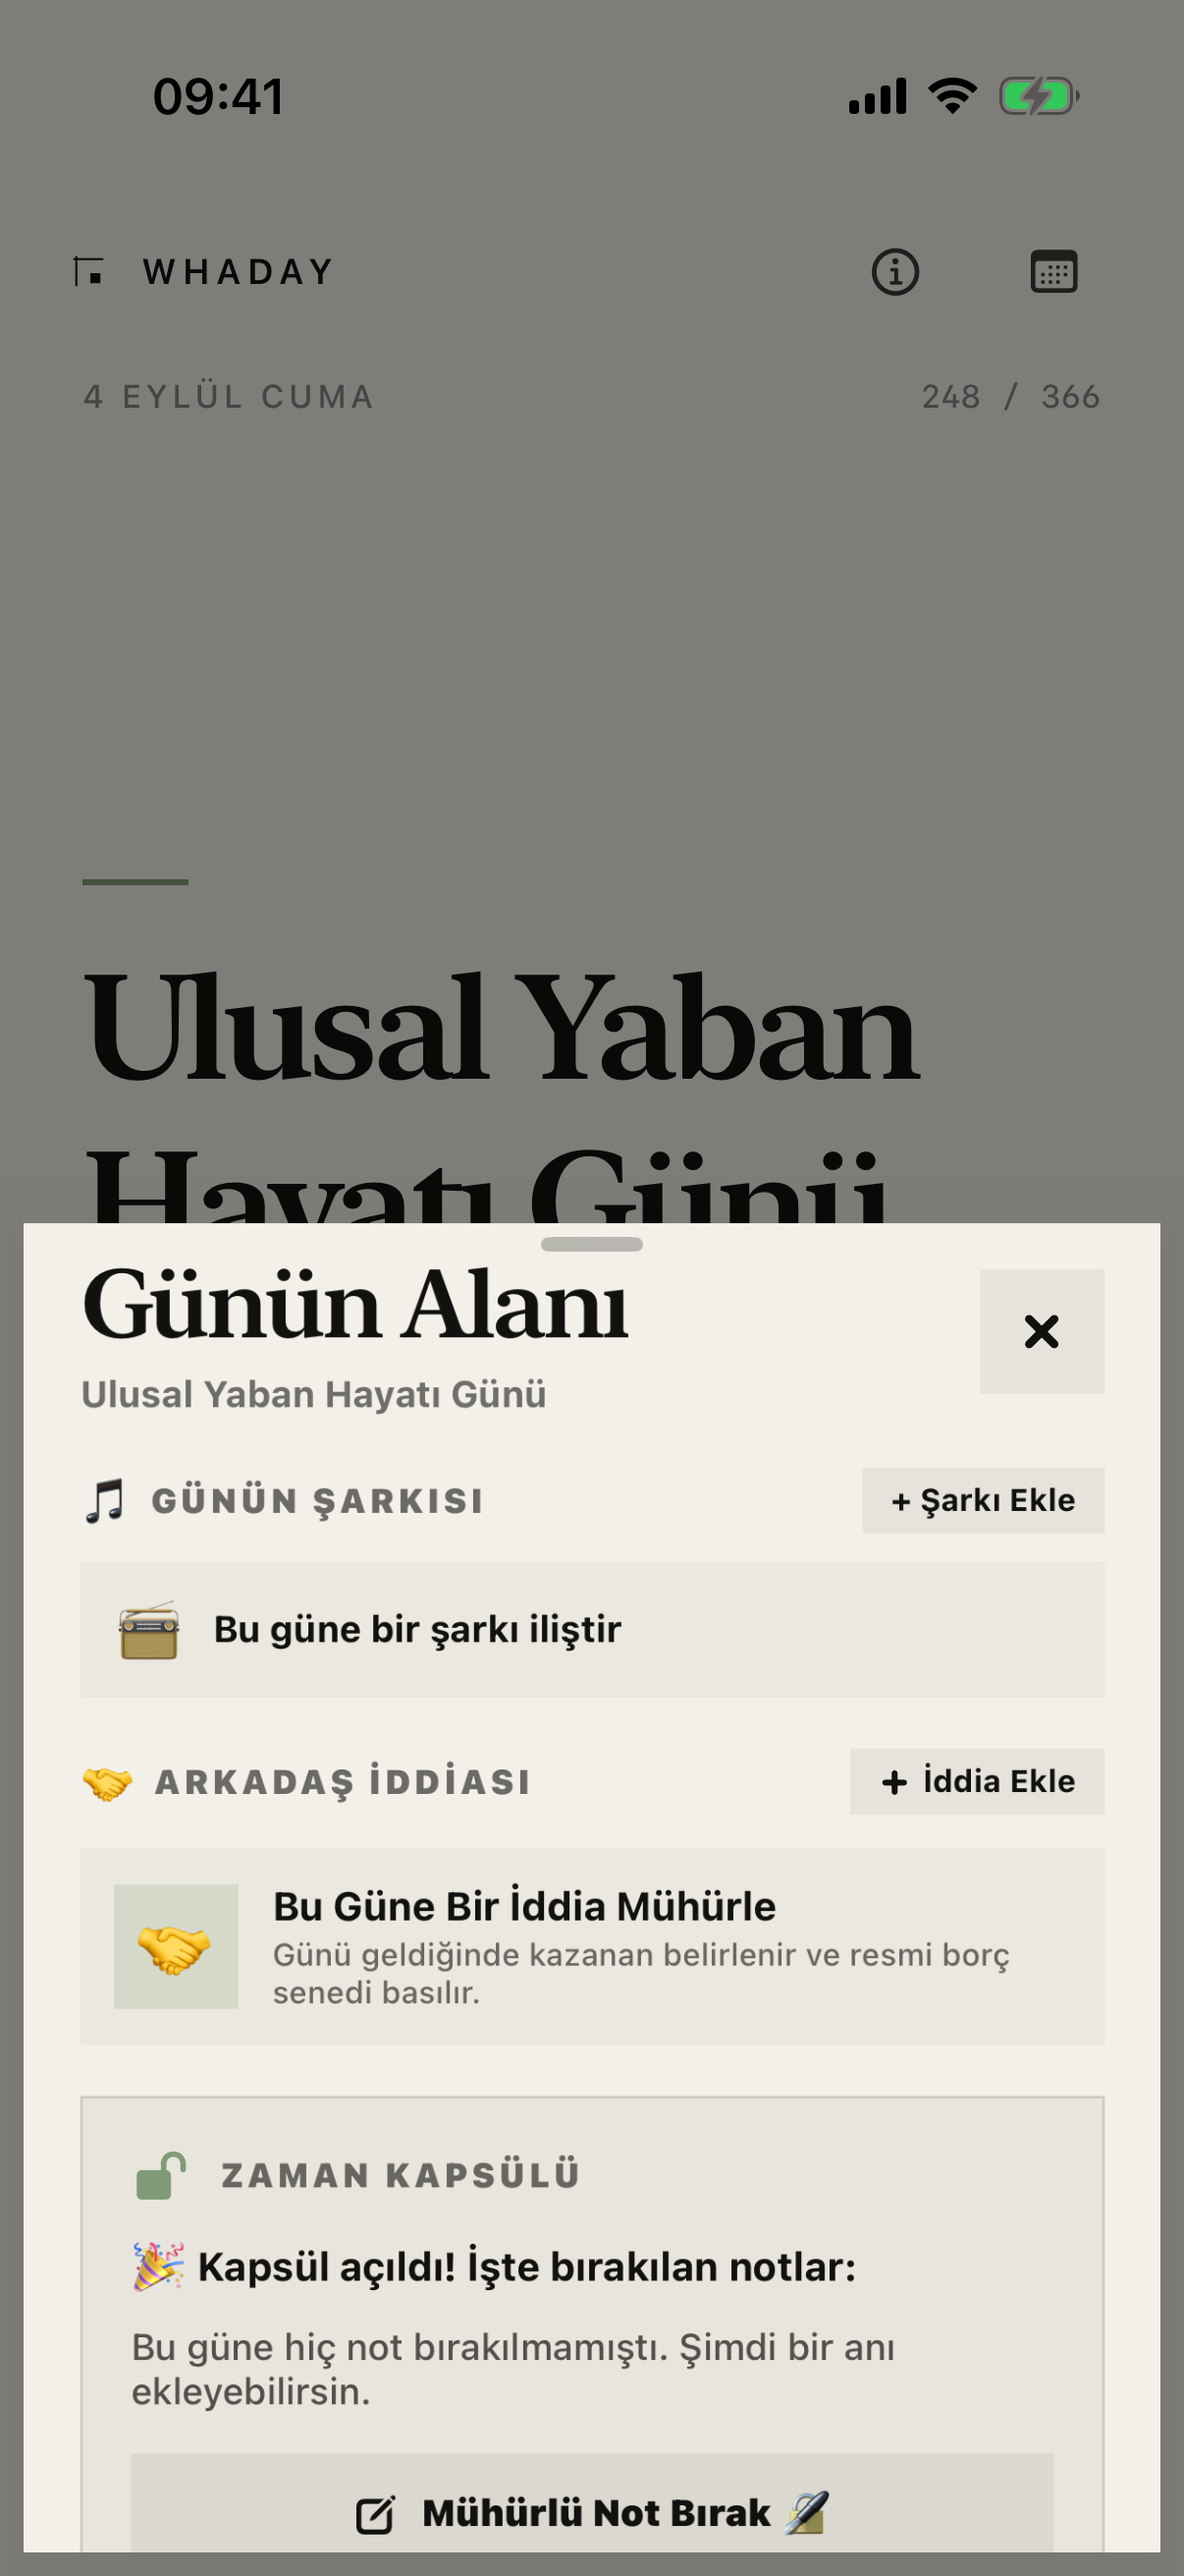
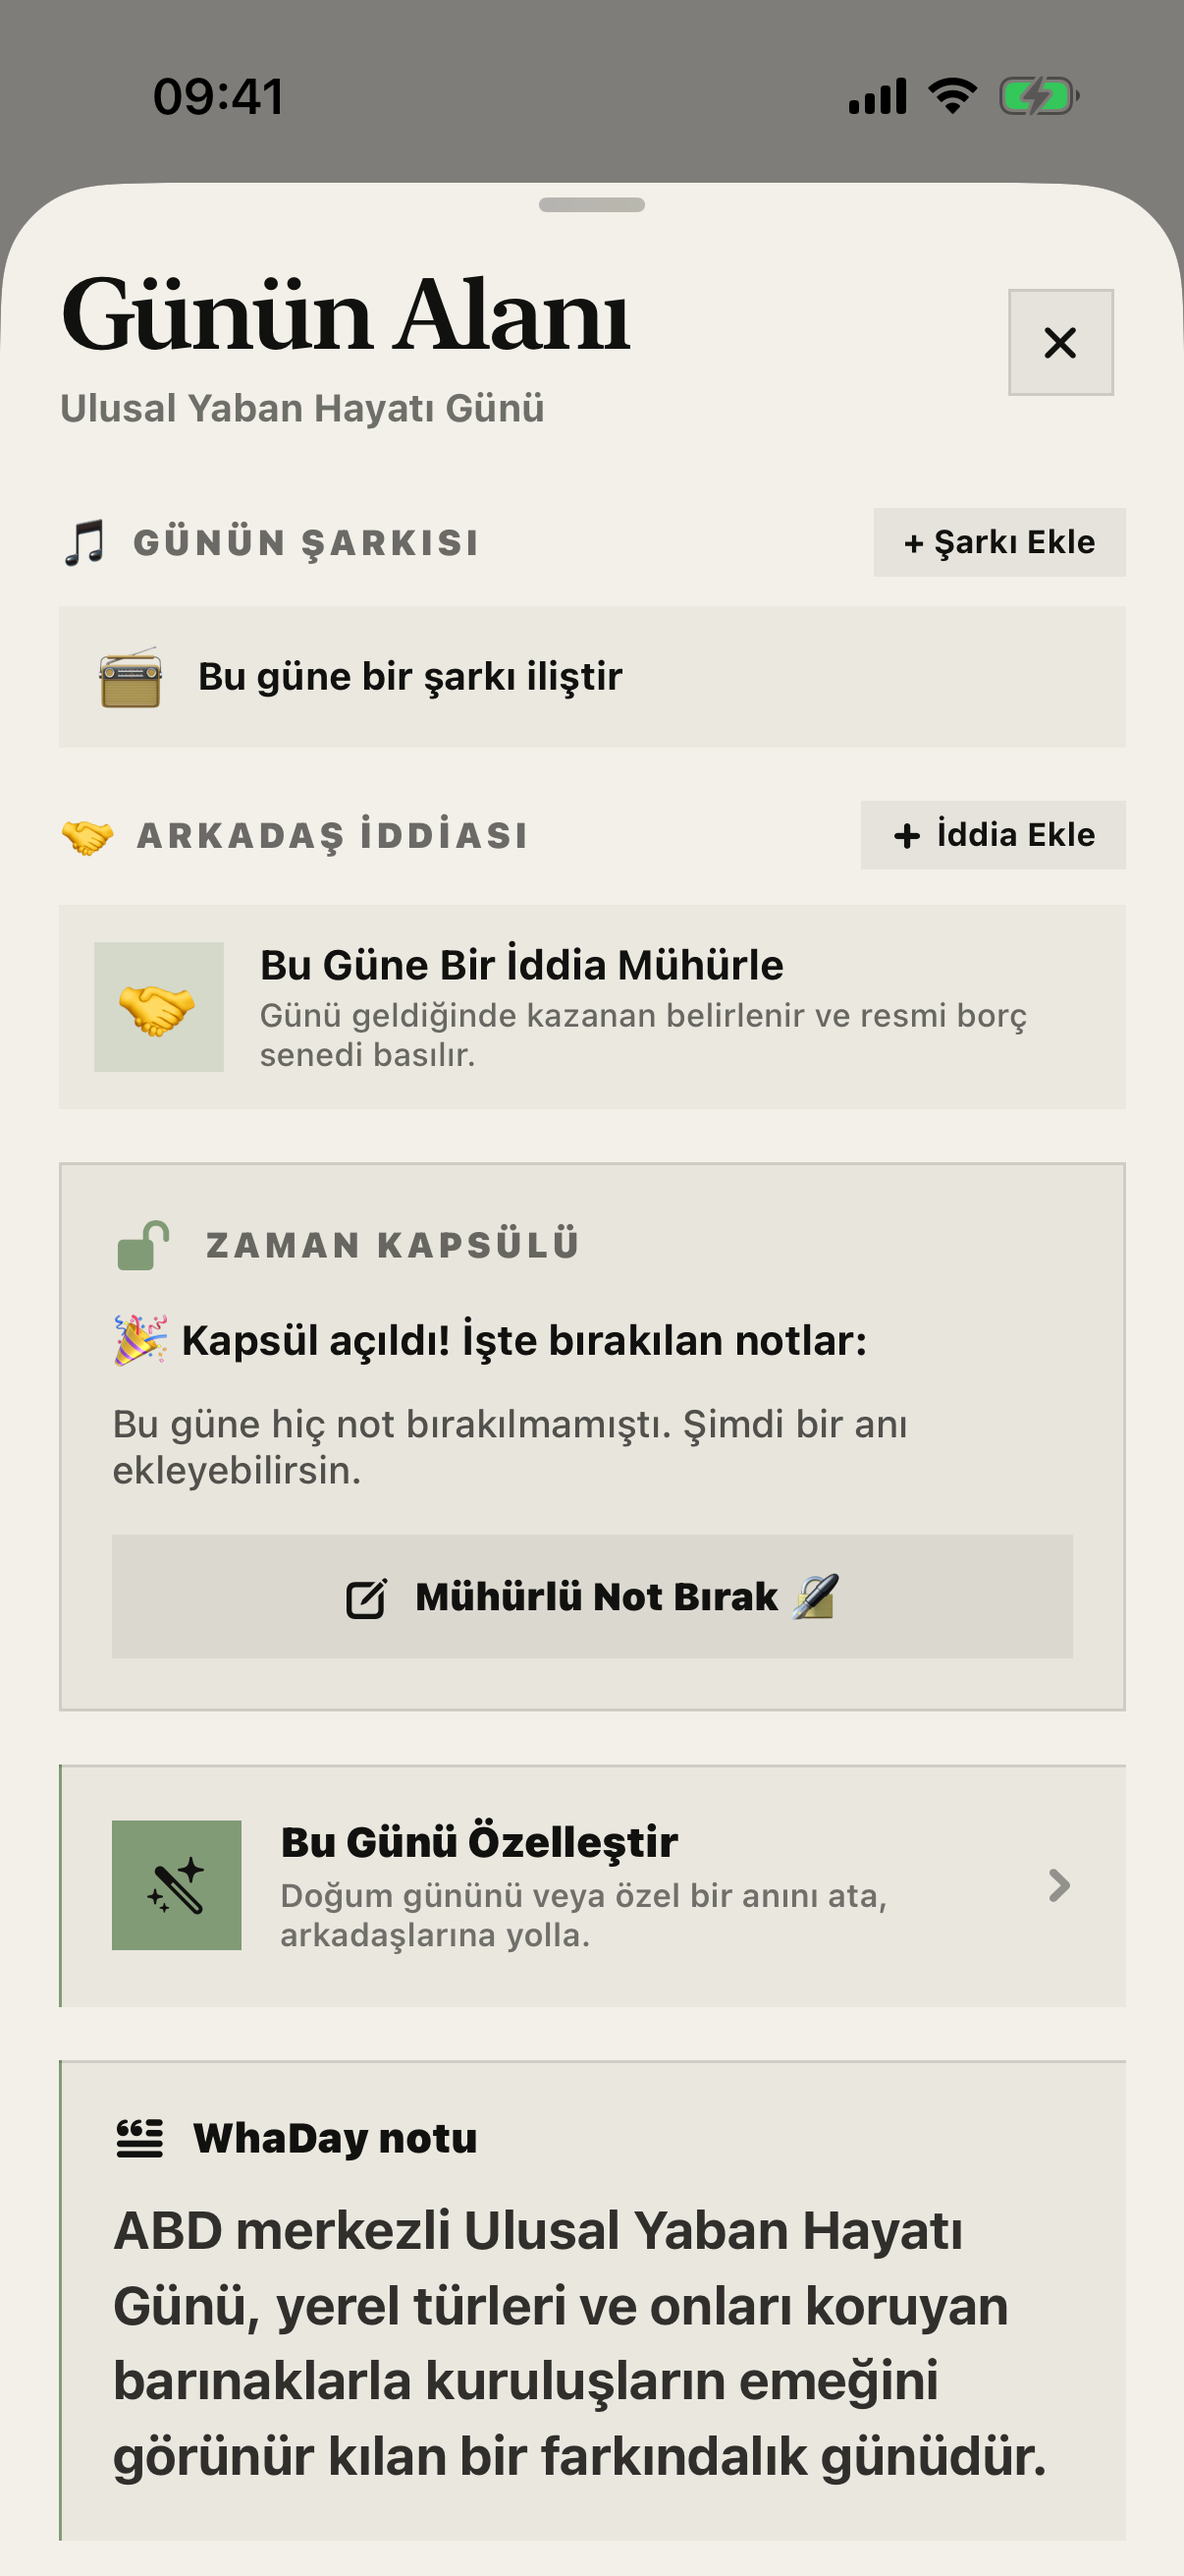
Polish sheet headers with generous top margins, hairline buttons, rich demo space data, updated marketing visuals, and bump to Build 10

diff --git a/WhaDayNative/Screens/SharedSpaceDetailView.swift b/WhaDayNative/Screens/SharedSpaceDetailView.swift
@@ -58,13 +58,17 @@ struct SharedSpaceDetailView: View {
     private var header: some View {
         HStack {
             Button { dismiss() } label: {
-                Image(systemName: "arrow.left")
-                    .font(.system(size: 15, weight: .bold))
-                    .frame(width: 44, height: 44)
+                Image(systemName: "xmark")
+                    .font(.system(size: 13, weight: .bold))
+                    .foregroundStyle(Color(hex: colors.ink))
+                    .frame(width: 36, height: 36)
                     .background(Color(hex: colors.ink).opacity(0.06))
                     .clipShape(Rectangle())
+                    .overlay(Rectangle().strokeBorder(Color(hex: colors.ink).opacity(0.12), lineWidth: 1))
             }
             .buttonStyle(.plain)
+            .minimumAccessibleTarget()
+            .accessibilityLabel(DayEventStore.language == "tr" ? "Kapat" : "Close")
             .accessibilityIdentifier("sharedSpace.close")
 
             Spacer()
@@ -74,20 +78,23 @@ struct SharedSpaceDetailView: View {
             } label: {
                 HStack(spacing: 6) {
                     Image(systemName: "person.badge.plus")
-                        .font(.system(size: 13, weight: .bold))
+                        .font(.system(size: 12, weight: .bold))
                     Text(DayEventStore.language == "tr" ? "Davet Et" : "Invite")
                         .appFont(size: 12, weight: .bold, relativeTo: .caption)
                 }
                 .padding(.horizontal, 14)
-                .padding(.vertical, 8)
+                .frame(height: 36)
                 .background(Color(hex: colors.accent))
                 .foregroundStyle(Color(hex: colors.ink))
                 .clipShape(Rectangle())
+                .overlay(Rectangle().strokeBorder(Color(hex: colors.ink).opacity(0.12), lineWidth: 1))
             }
             .buttonStyle(.plain)
+            .minimumAccessibleTarget()
         }
         .foregroundStyle(Color(hex: colors.onBackdrop))
-        .padding(.top, 8)
+        .padding(.top, 24)
+        .padding(.bottom, 8)
     }
 
     private var spaceHeroCard: some View {

diff --git a/WhaDayNative/Services/SharedSpaceManager.swift b/WhaDayNative/Services/SharedSpaceManager.swift
@@ -39,10 +39,10 @@ final class SharedSpaceManager: ObservableObject {
                 id: "demo-couple-space",
                 title: "Göktürk & Ekin ❤",
                 emoji: "❤",
-                creatorName: "Göktürk",
-                members: ["Göktürk", "Ekin"]
+                creatorName: "Ekin",
+                members: ["Ekin", "Partner"]
             )
-            let demoEvent = SharedSpaceEvent(
+            let demoEvent1 = SharedSpaceEvent(
                 id: "demo-event-1",
                 spaceID: "demo-couple-space",
                 month: 9,
@@ -52,8 +52,28 @@ final class SharedSpaceManager: ObservableObject {
                 emoji: "✈",
                 addedBy: "Ekin"
             )
+            let demoEvent2 = SharedSpaceEvent(
+                id: "demo-event-2",
+                spaceID: "demo-couple-space",
+                month: 10,
+                day: 24,
+                title: "İlk Kahvemiz",
+                description: "Kadıköy sahil",
+                emoji: "☕",
+                addedBy: "Ekin"
+            )
+            let demoEvent3 = SharedSpaceEvent(
+                id: "demo-event-3",
+                spaceID: "demo-couple-space",
+                month: 12,
+                day: 31,
+                title: "Yılbaşı Kaçamağı",
+                description: "Kapadokya",
+                emoji: "✨",
+                addedBy: "Ekin"
+            )
             loadedSpaces = [demoSpace]
-            loadedEvents = ["demo-couple-space": [demoEvent]]
+            loadedEvents = ["demo-couple-space": [demoEvent1, demoEvent2, demoEvent3]]
         }
         self.spaces = loadedSpaces
         self.eventsBySpace = loadedEvents

diff --git a/WhaDayNative/Screens/DayContextSheet.swift b/WhaDayNative/Screens/DayContextSheet.swift
@@ -44,6 +44,7 @@ struct DayContextSheet: View {
                 defaultEvent: DayEventStore.event(id: event.id)
             )
             .presentationDetents([.large])
+            .presentationDragIndicator(.visible)
         }
         .sheet(isPresented: $showingShareSheet) {
             if let custom = customDayStore.customDay(for: event.id), let url = custom.webShareURL() {
@@ -241,17 +242,21 @@ struct DayContextSheet: View {
 
             Button { dismiss() } label: {
                 Image(systemName: "xmark")
-                    .font(.system(size: 14, weight: .black))
-                    .frame(width: 44, height: 44)
+                    .font(.system(size: 13, weight: .bold))
+                    .foregroundStyle(Color(hex: colors.onBackdrop))
+                    .frame(width: 36, height: 36)
                     .background(Color(hex: colors.ink).opacity(0.06))
                     .clipShape(Rectangle())
+                    .overlay(Rectangle().strokeBorder(Color(hex: colors.ink).opacity(0.12), lineWidth: 1))
             }
             .buttonStyle(.plain)
+            .minimumAccessibleTarget()
             .accessibilityLabel(DayEventStore.language == "tr" ? "Kapat" : "Close")
             .accessibilityIdentifier("dayContext.close")
         }
         .foregroundStyle(Color(hex: colors.onBackdrop))
-        .padding(.top, 8)
+        .padding(.top, 24)
+        .padding(.bottom, 8)
     }
 
     private var contextCard: some View {

diff --git a/WhaDayNative/Sharing/ShareStudioView.swift b/WhaDayNative/Sharing/ShareStudioView.swift
@@ -44,7 +44,7 @@ struct ShareStudioView: View {
                     Color.clear.frame(height: 76)
                 }
                 .padding(.horizontal, 20)
-                .padding(.top, 8)
+                .padding(.top, 24)
             }
             .scrollIndicators(.hidden)
         }
@@ -95,10 +95,15 @@ struct ShareStudioView: View {
                 dismiss()
             } label: {
                 Image(systemName: "xmark")
-                    .font(.system(size: 14, weight: .medium))
-                    .frame(width: 44, height: 44)
+                    .font(.system(size: 13, weight: .bold))
+                    .foregroundStyle(Color(hex: colors.onBackdrop))
+                    .frame(width: 36, height: 36)
+                    .background(Color(hex: colors.ink).opacity(0.06))
+                    .clipShape(Rectangle())
+                    .overlay(Rectangle().strokeBorder(Color(hex: colors.ink).opacity(0.12), lineWidth: 1))
             }
             .buttonStyle(.plain)
+            .minimumAccessibleTarget()
             .accessibilityLabel(DayEventStore.language == "tr" ? "Kapat" : "Close")
             .accessibilityIdentifier("share.close")
         }

diff --git a/WhaDayNative/Screens/SettingsScreen.swift b/WhaDayNative/Screens/SettingsScreen.swift
@@ -63,13 +63,17 @@ struct SettingsScreen: View {
                 Haptics.triggerLight()
                 onBack()
             } label: {
-                Image(systemName: "chevron.left")
-                    .font(.system(size: 16, weight: .medium))
+                Image(systemName: "xmark")
+                    .font(.system(size: 14, weight: .bold))
                     .foregroundStyle(Color(hex: colors.onBackdrop).opacity(0.82))
-                    .frame(width: 44, height: 44)
+                    .frame(width: 36, height: 36)
+                    .background(Color(hex: colors.ink).opacity(0.06))
+                    .clipShape(Rectangle())
+                    .overlay(Rectangle().strokeBorder(Color(hex: colors.ink).opacity(0.12), lineWidth: 1))
             }
             .buttonStyle(.plain)
-            .accessibilityLabel(DayEventStore.language == "tr" ? "Geri" : "Back")
+            .minimumAccessibleTarget()
+            .accessibilityLabel(DayEventStore.language == "tr" ? "Kapat" : "Close")
             .accessibilityIdentifier("settings.back")
         }
         .padding(.top, 10)

diff --git a/WhaDayNative/Screens/NewSharedEventSheet.swift b/WhaDayNative/Screens/NewSharedEventSheet.swift
@@ -71,15 +71,20 @@ struct NewSharedEventSheet: View {
 
             Button { dismiss() } label: {
                 Image(systemName: "xmark")
-                    .font(.system(size: 14, weight: .black))
-                    .frame(width: 44, height: 44)
+                    .font(.system(size: 13, weight: .bold))
+                    .foregroundStyle(Color(hex: colors.onBackdrop))
+                    .frame(width: 36, height: 36)
                     .background(Color(hex: colors.ink).opacity(0.06))
                     .clipShape(Rectangle())
+                    .overlay(Rectangle().strokeBorder(Color(hex: colors.ink).opacity(0.12), lineWidth: 1))
             }
             .buttonStyle(.plain)
+            .minimumAccessibleTarget()
+            .accessibilityLabel(DayEventStore.language == "tr" ? "Kapat" : "Close")
         }
         .foregroundStyle(Color(hex: colors.onBackdrop))
-        .padding(.top, 10)
+        .padding(.top, 24)
+        .padding(.bottom, 8)
     }
 
     private var datePickerSection: some View {

diff --git a/WhaDayNative/Screens/NewCapsuleNoteSheet.swift b/WhaDayNative/Screens/NewCapsuleNoteSheet.swift
@@ -78,15 +78,20 @@ struct NewCapsuleNoteSheet: View {
 
             Button { dismiss() } label: {
                 Image(systemName: "xmark")
-                    .font(.system(size: 14, weight: .black))
-                    .frame(width: 44, height: 44)
+                    .font(.system(size: 13, weight: .bold))
+                    .foregroundStyle(Color(hex: colors.onBackdrop))
+                    .frame(width: 36, height: 36)
                     .background(Color(hex: colors.ink).opacity(0.06))
                     .clipShape(Rectangle())
+                    .overlay(Rectangle().strokeBorder(Color(hex: colors.ink).opacity(0.12), lineWidth: 1))
             }
             .buttonStyle(.plain)
+            .minimumAccessibleTarget()
+            .accessibilityLabel(DayEventStore.language == "tr" ? "Kapat" : "Close")
         }
         .foregroundStyle(Color(hex: colors.onBackdrop))
-        .padding(.top, 10)
+        .padding(.top, 24)
+        .padding(.bottom, 8)
     }
 
     private var sealWarningCard: some View {

diff --git a/WhaDayNative/Screens/TimeMachineSheet.swift b/WhaDayNative/Screens/TimeMachineSheet.swift
@@ -57,15 +57,20 @@ struct TimeMachineSheet: View {
 
             Button { dismiss() } label: {
                 Image(systemName: "xmark")
-                    .font(.system(size: 14, weight: .black))
-                    .frame(width: 44, height: 44)
+                    .font(.system(size: 13, weight: .bold))
+                    .foregroundStyle(Color(hex: colors.onBackdrop))
+                    .frame(width: 36, height: 36)
                     .background(Color(hex: colors.ink).opacity(0.06))
                     .clipShape(Rectangle())
+                    .overlay(Rectangle().strokeBorder(Color(hex: colors.ink).opacity(0.12), lineWidth: 1))
             }
             .buttonStyle(.plain)
+            .minimumAccessibleTarget()
+            .accessibilityLabel(DayEventStore.language == "tr" ? "Kapat" : "Close")
         }
         .foregroundStyle(Color(hex: colors.onBackdrop))
-        .padding(.top, 10)
+        .padding(.top, 24)
+        .padding(.bottom, 8)
     }
 
     private var onThisDaySection: some View {

diff --git a/WhaDayNative/Screens/CustomDayEditorSheet.swift b/WhaDayNative/Screens/CustomDayEditorSheet.swift
@@ -99,15 +99,20 @@ struct CustomDayEditorSheet: View {
 
             Button { dismiss() } label: {
                 Image(systemName: "xmark")
-                    .font(.system(size: 14, weight: .black))
-                    .frame(width: 44, height: 44)
+                    .font(.system(size: 13, weight: .bold))
+                    .foregroundStyle(Color(hex: colors.onBackdrop))
+                    .frame(width: 36, height: 36)
                     .background(Color(hex: colors.ink).opacity(0.06))
                     .clipShape(Rectangle())
+                    .overlay(Rectangle().strokeBorder(Color(hex: colors.ink).opacity(0.12), lineWidth: 1))
             }
             .buttonStyle(.plain)
+            .minimumAccessibleTarget()
+            .accessibilityLabel(DayEventStore.language == "tr" ? "Kapat" : "Close")
         }
         .foregroundStyle(Color(hex: colors.onBackdrop))
-        .padding(.top, 10)
+        .padding(.top, 24)
+        .padding(.bottom, 8)
     }
 
     private var emojiPicker: some View {

diff --git a/WhaDayNative/Screens/CreateSpaceSheet.swift b/WhaDayNative/Screens/CreateSpaceSheet.swift
@@ -53,15 +53,20 @@ struct CreateSpaceSheet: View {
 
             Button { dismiss() } label: {
                 Image(systemName: "xmark")
-                    .font(.system(size: 14, weight: .black))
-                    .frame(width: 44, height: 44)
+                    .font(.system(size: 13, weight: .bold))
+                    .foregroundStyle(Color(hex: colors.onBackdrop))
+                    .frame(width: 36, height: 36)
                     .background(Color(hex: colors.ink).opacity(0.06))
                     .clipShape(Rectangle())
+                    .overlay(Rectangle().strokeBorder(Color(hex: colors.ink).opacity(0.12), lineWidth: 1))
             }
             .buttonStyle(.plain)
+            .minimumAccessibleTarget()
+            .accessibilityLabel(DayEventStore.language == "tr" ? "Kapat" : "Close")
         }
         .foregroundStyle(Color(hex: colors.onBackdrop))
-        .padding(.top, 10)
+        .padding(.top, 24)
+        .padding(.bottom, 8)
     }
 
     private var emojiPicker: some View {

diff --git a/WhaDayNative/Screens/NewBetSheet.swift b/WhaDayNative/Screens/NewBetSheet.swift
@@ -65,15 +65,20 @@ struct NewBetSheet: View {
 
             Button { dismiss() } label: {
                 Image(systemName: "xmark")
-                    .font(.system(size: 14, weight: .black))
-                    .frame(width: 44, height: 44)
+                    .font(.system(size: 13, weight: .bold))
+                    .foregroundStyle(Color(hex: colors.onBackdrop))
+                    .frame(width: 36, height: 36)
                     .background(Color(hex: colors.ink).opacity(0.06))
                     .clipShape(Rectangle())
+                    .overlay(Rectangle().strokeBorder(Color(hex: colors.ink).opacity(0.12), lineWidth: 1))
             }
             .buttonStyle(.plain)
+            .minimumAccessibleTarget()
+            .accessibilityLabel(DayEventStore.language == "tr" ? "Kapat" : "Close")
         }
         .foregroundStyle(Color(hex: colors.onBackdrop))
-        .padding(.top, 10)
+        .padding(.top, 24)
+        .padding(.bottom, 8)
     }
 
     private var titleSection: some View {

diff --git a/WhaDayNative/Purchases/PlusPaywallView.swift b/WhaDayNative/Purchases/PlusPaywallView.swift
@@ -72,15 +72,20 @@ struct PlusPaywallView: View {
                 dismiss()
             } label: {
                 Image(systemName: "xmark")
-                    .font(.system(size: 14, weight: .medium))
+                    .font(.system(size: 13, weight: .bold))
                     .foregroundStyle(Color(hex: colors.ink))
-                    .frame(width: 44, height: 44)
+                    .frame(width: 36, height: 36)
+                    .background(Color(hex: colors.ink).opacity(0.06))
+                    .clipShape(Rectangle())
+                    .overlay(Rectangle().strokeBorder(Color(hex: colors.ink).opacity(0.12), lineWidth: 1))
             }
             .buttonStyle(.plain)
+            .minimumAccessibleTarget()
             .accessibilityLabel(DayEventStore.language == "tr" ? "Kapat" : "Close")
             .accessibilityIdentifier("plus.close")
         }
-        .padding(.top, 8)
+        .padding(.top, 24)
+        .padding(.bottom, 8)
     }
 
     private var features: some View {
